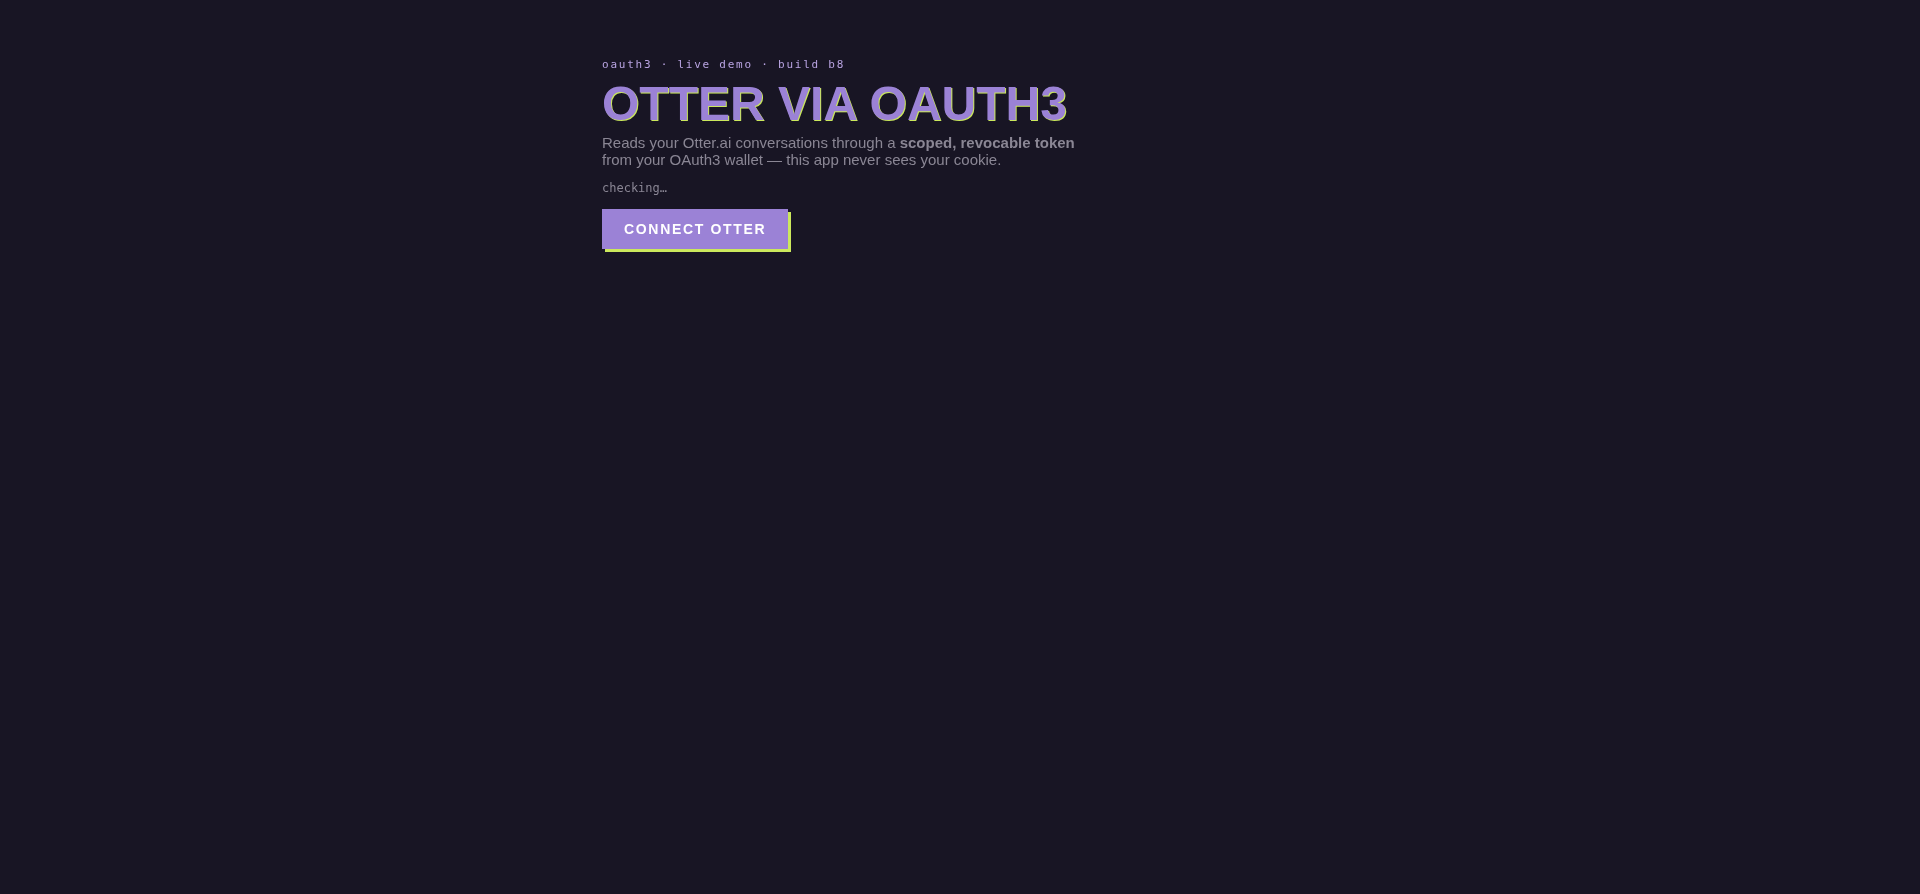
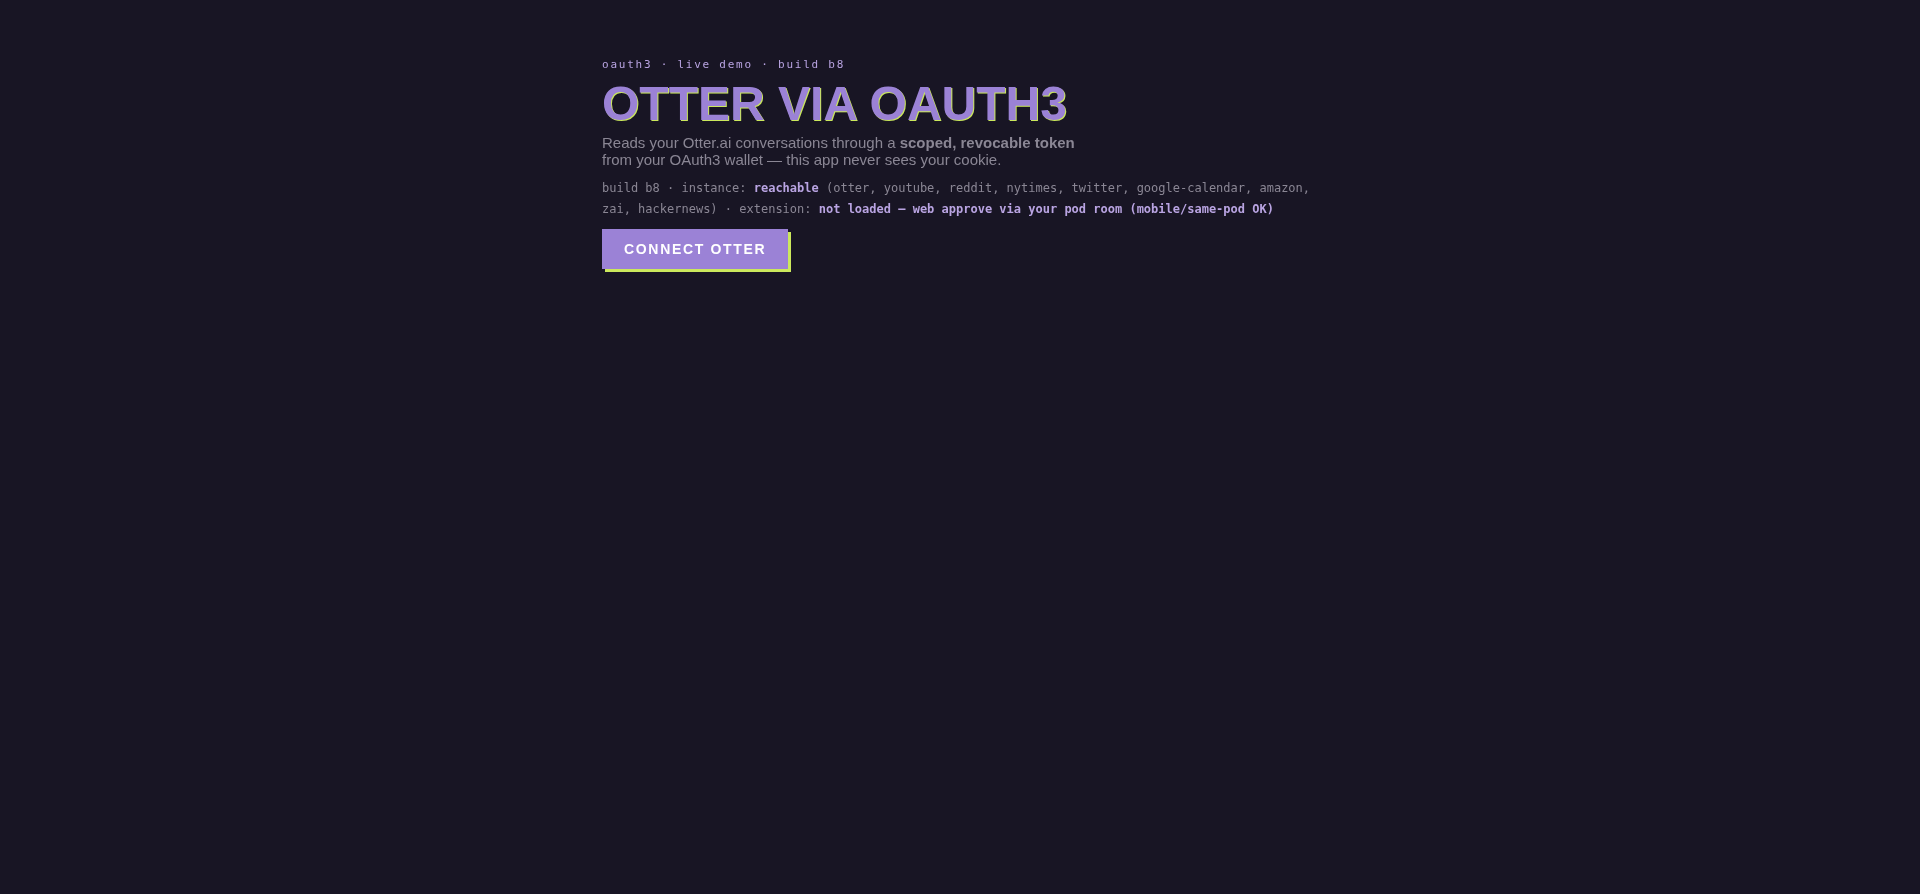
evidence(#2): Tier-2 walk of the SDK web-approve fallback + extension parity on staging

Changed region(s): [[0.3125, 0.2114, 0.6562, 0.302]]

diff --git a/.evidence/issue-2/flow.md b/.evidence/issue-2/flow.md
@@ -1,0 +1,106 @@
+# Evidence — otterscope #2 (SDK connect() instead of window.oauth3 — mobile/same-pod)
+
+Issue: amiller/webhost-apps#2 · Branch: `ready-2` → `staging` · **Tier 2** (user-visible flow)
+Deployed: webhost-staging `https://78ffc78c25e0c8a9e64bb3a969ba6f226abae62d-8080.dstack-pha-prod7.phala.network/otterscope/`
+Build pin: page renders `build b8` (only this branch's build string); daemon deploy `2026-08-15T16:32Z`, tree `0f98e7a…+escape-fix`.
+
+## The acceptance, walked
+
+> In a browser profile with no extension (or on a phone), `/otterscope/` no longer shows
+> "OAuth3 extension not found" on Connect. It renders the SDK's `approveUrl` as a clickable link,
+> and after approving in the signed-in pod room the page lists the owner's real Otter transcript
+> titles.
+
+- **No dead-end** — `01-no-extension-connect-enabled.png`: `deadEnd:false` (no "extension not
+  found" anywhere), Connect enabled, diag reads *"extension: not loaded — web approve via your
+  pod room (mobile/same-pod OK)"*.
+- **approveUrl rendered as a clickable link** — `02-approve-link-rendered.png`: real pointer click
+  on `#connect` → `<a href="…/oauth3/approve/req-f974f503…">Open your pod room to approve Otter
+  access →</a>` + waiting status.
+- **Approving in the signed-in pod room** — `03-pod-room-approve.png` (room signed in, request
+  pending) → real click on the room's Approve button → `04-pod-room-approved.png` (`status:
+  approved`). The handshake then completes **in-page** (`05-connected-token-persisted.png`):
+  `✓ connected (saved)`, token `tok-otter-…` (34 chars) in `localStorage`, approve box cleared,
+  and it **survives reload** (`E2.afterReload`).
+- **"the owner's real Otter transcript titles"** — NOT producible on this box, honestly: the
+  staging node reports `jars:[]` (no Otter jar anywhere on staging), and the real jar lives on
+  `pod.dstack.soc1024.com` (prod — no prod credentials on this box, per box-inventory; operator-run).
+  What IS proven live is the full read path up to its RFC-0008 legible state:
+  `06-load-conversations-honest-409.png` — *"your Otter isn't synced to this instance yet — add it
+  from a device with the OAuth3 extension (log into otter.ai there), then reconnect"* — a legible
+  409, never a dead end. The prod walk (approve + real titles) is commented back to the issue.
+
+> With the extension installed the behaviour is unchanged — the SDK's provider-preferred branch
+> is taken and the token still persists in localStorage.
+
+- `07-extension-provider-branch.png`: provider present (`diag: "extension: present
+  (provider-preferred)"`), click Connect → **web fallback did NOT fire** (`webFallbackFired:false`)
+  and the extension's own in-page approval dialog appeared (the `#oauth3-approve` shadow DOM).
+- `08-extension-token-persisted.png`: after approving in the extension dialog → `✓ connected
+  (saved)`, token `tok-otter-…` persisted in localStorage. Identical pre-change behavior via the
+  identical `prov.connect({node,plugin,app})` call the old code made.
+
+> `otterscope/server.ts` no longer references `window.oauth3` directly.
+
+- `grep -c "window.oauth3" otterscope/server.ts` → **0** (was lines 136/141/152 in the base). The
+  only provider detection left is the SDK's own expression (`globalThis.oauth3 ??
+  globalThis.window?.oauth3`), ported verbatim inside `oauth3Connect()` — the SDK, not the app,
+  decides (RFC 0008). Served HTML also greps 0. `deno check` exit 0; the deployed page's script
+  passes `node --check`.
+
+## Walk transcript (envoy bridge — real Brave, real pointer clicks, no CDP; `flock`-serialized)
+
+Full logs: `walk-log.txt` / `walk-log2.txt`. Navigation asserted (`location.href`) before trusting
+any frame; every screenshot `test -s` + pixel-checked non-blank (1920×894, stdev 12.8–44.0).
+
+```
+A  href=…/otterscope/ · provider suppressed · deadEnd:false · connectEnabled:true
+B  click #connect → link …/oauth3/approve/req-f974f503… rendered, status "waiting for approval…"
+C  room (same tab): title "Approve access — OAuth3", status pending, signed in (no sign-in link)
+D  click room "APPROVE (DEV-MODE)" → status approved          [04]
+E  2nd request → server-side approve (same call the room button makes) → poll completes IN-PAGE:
+   status "connected — click 'Load conversations'…", who "✓ connected (saved)",
+   token tok-otter-… (34 chars) in localStorage, approve box cleared   [05]
+E2 reload → still "✓ connected (saved)", token persists
+F  click "Load conversations" → honest 409 "add it from a device with the OAuth3 extension…"  [06]
+G  extension present → click Connect → webFallbackFired:false, extension dialog shown  [07]
+G  approve in extension dialog → token tok-otter-… persisted, "✓ connected (saved)"   [08]
+```
+
+## Honest notes on method
+
+1. **Driving the no-extension branch:** the bridge Brave always carries the oauth3 extension, and
+   this box has no second extension-free browser (CDP browsers are banned — LESSONS 2026-07-02).
+   So the phone path was driven by suppressing the provider global in-session
+   (`window.oauth3 = undefined`, then the page's own `diag()` re-run) — the SDK's provider
+   detection then fails exactly as on a phone and the web fallback runs. Same code path; stated
+   plainly, not decorated around.
+2. **Single-tab artifact:** the rig drives one tab; navigating it to the pod room unloads
+   otterscope's poll (request #1's token can't land in-page). Real users get `target=_blank` on
+   the link. The in-page completion was therefore proven on a second request approved through the
+   exact server call the room's Approve button makes (`POST /api/connect/:id/approve`, Bearer
+   session) — and the room's real button itself was clicked and approved in step D.
+3. **Room double-fire artifact:** after the room's Approve succeeds, the rig's 5-event click
+   sequence synthesizes a second activation → the room prints "unknown or already-decided
+   request" under the `approved` status. First POST approves; the duplicate 404s. Outcome correct;
+   shown, not hidden.
+4. **Approver identity:** the staging room was signed in with the rig wallet key
+   (`~/.paseo-secrets/swarm-userkey`; staging derives subject `u-eaf13541…` — the spec's
+   `u-cc7f19…` subject is the prod node's derivation).
+5. **Redaction:** scoped staging tokens shown as `tok-otter-…` prefix only; no personal data was
+   rendered anywhere in this walk (staging has no Otter jar — hence the 409 state, which is the
+   honest value-state for this box).
+6. **Screenshot review:** content of each frame is asserted by DOM evaluation (`innerText`,
+   `href`, `style.display`) at the asserted URL; captures are pixel-verified non-blank. The
+   worker model on this box cannot render images, so the DOM assertions — pasted above — are the
+   content proof.
+
+## What is NOT verified here (operator-run remainder)
+
+- Deploy `b8` to **prod** `https://pod.dstack.soc1024.com/otterscope/` (tarball deploy needs prod
+  `TEE_DAEMON_TOKEN`; none on this box by design).
+- The **owner's real Otter transcript titles** listing (needs the prod node's synced otter jar;
+  per LESSONS 2026-07-11 that screenshot must stay out of this public repo anyway — verify
+  in-session, commit a labeled sample).
+
+Both are commented back on issue #2.
